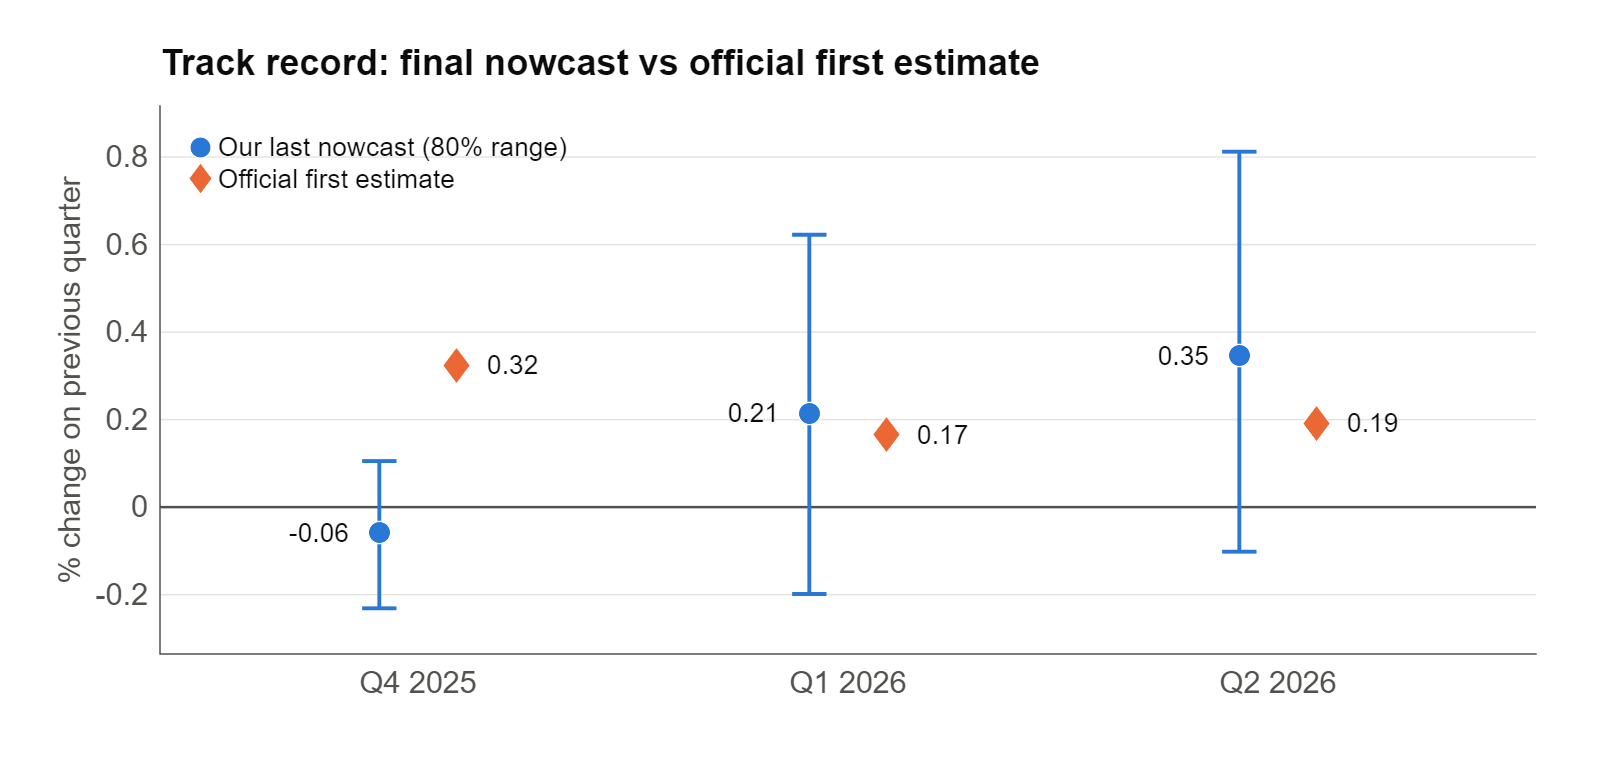
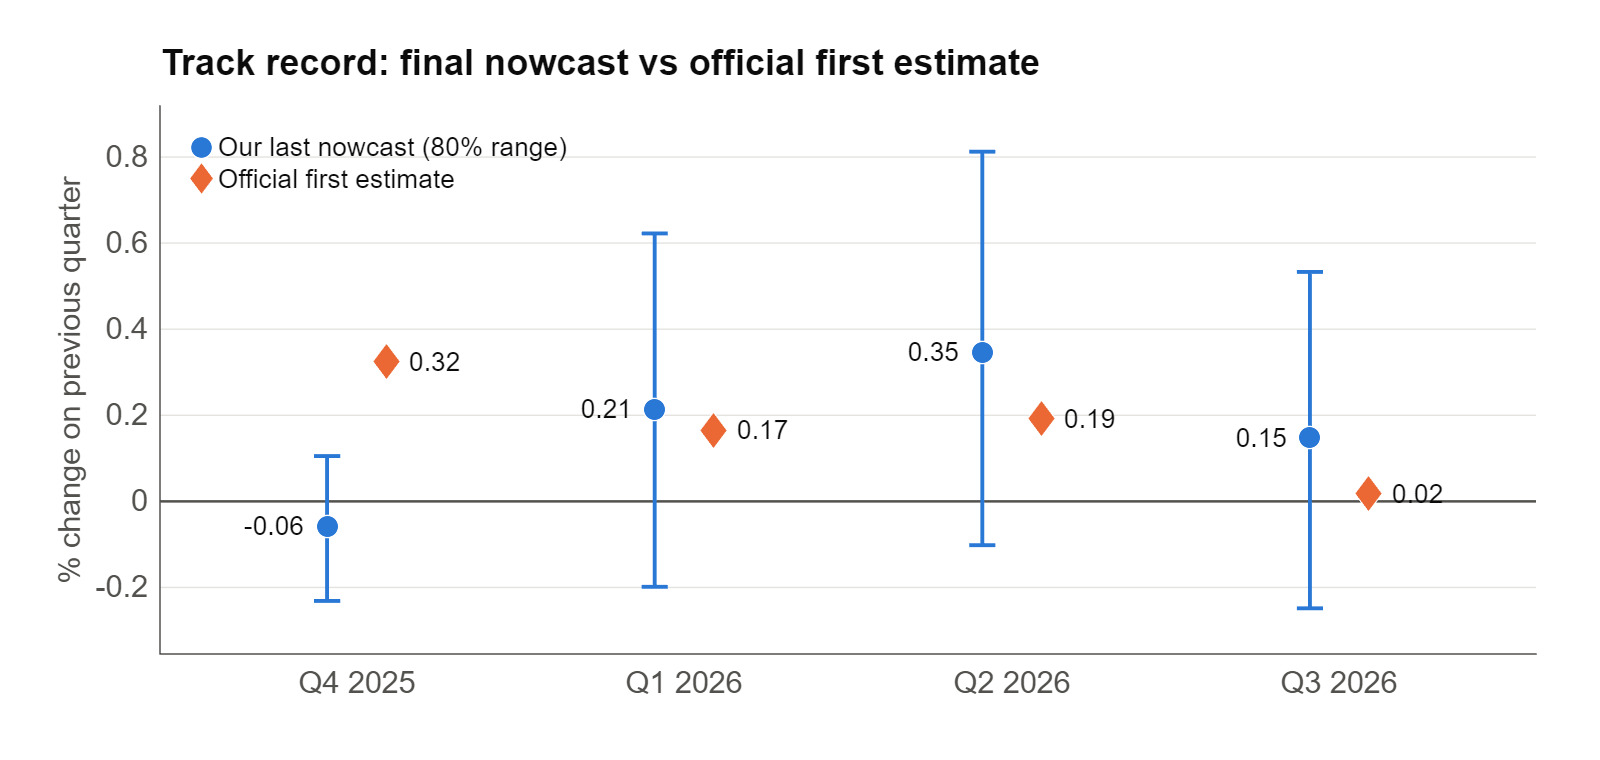
Update GDP nowcast

diff --git a/_pages/nowcast.md b/_pages/nowcast.md
@@ -5,38 +5,32 @@ permalink: /nowcast/
 author_profile: true
 ---
 
-**Latest estimate, 30 October 2026 at 08:12:** Italy's real GDP in **Q3 2026** grew by **0.15%** compared with the previous quarter.
-Likely range (80% probability): -0.25% to 0.53%. Compared with a year earlier: 0.94%.
-The estimate is up 0.06 percentage points from last week.
-This is our final estimate for Q3 2026, made with the data available before ISTAT's preliminary estimate, due today.
+**Latest estimate, 6 November 2026 at 10:10:** Italy's real GDP in **Q4 2026** is growing by **0.33%** compared with the previous quarter.
+Likely range (80% probability): -0.06% to 0.74%. Compared with a year earlier: 0.82%.
+The estimate is up 0.28 percentage points from last week.
 {: .notice--primary style="font-size: 1.1em !important; line-height: 1.6;"}
 
 <!-- release-update -->
 
-**Update, 30 October 2026 at 11:15:** ISTAT's preliminary estimate puts Italy's GDP growth in Q3 2026 at **0%** on the previous quarter.
-Our final nowcast, published on 30 October 2026 at 08:12 with the data available before the release, was **0.15%** (80% range -0.25% to 0.53%). The chart below shows both.
-{: .notice--info}
-
-<!-- /release-update -->
-
-*Updated every Friday. Next official figure: ISTAT preliminary estimate for Q3 2026, due 30 October 2026.*
+*Updated every Friday. Next official figure: ISTAT preliminary estimate for Q4 2026, due 29 January 2027.*
 
 {% capture itnow_block %}{% include nowcast_intro.md %}{% endcapture %}
 {{ itnow_block | markdownify }}
 
-## How the estimate for Q3 2026 has evolved
+## How the estimate for Q4 2026 has evolved
 
-![How the Q3 2026 GDP nowcast evolved week by week](web_nowcast_qoq.png)
+![How the Q4 2026 GDP nowcast evolved week by week](web_nowcast_qoq.png)
 
 Each point is the estimate made on that Friday with the data available at the time. The shaded bands show the uncertainty: the darker band contains the outcome with 50% probability, the lighter band with 80%. The bands narrow as more monthly data for the quarter are published.
 
-![What moved the Q3 2026 nowcast each week](web_news_quarter.png)
+![What moved the Q4 2026 nowcast each week](web_news_quarter.png)
 
 Each bar shows how much the data published that week moved the nowcast, split by type of data. Grey bars are revisions to figures published earlier.
 
-## What changed this week
+<details markdown="1">
+<summary>This week's changes in detail</summary>
 
-The data published this week moved the estimate by +0.06 percentage points (surveys +0.06).
+The data published this week moved the estimate by +0.28 percentage points (surveys +0.21, prices & rates +0.10, gdp release -0.05).
 
 ![Contribution of this week's data releases to the change in the nowcast](web_news_week.png)
 
@@ -44,13 +38,20 @@ The data published this week moved the estimate by +0.06 percentage points (surv
 
 New data published since last week:
 
-- Consumer confidence (Sep 2026): -3.0 points
+- Consumer confidence (Oct 2026): -0.1 points
+- Industrial confidence (Oct 2026): +0.2 points
+- Consumer prices (HICP) (Oct 2026): +1.2% on previous month
+- 1-year Euribor interest rate (Oct 2026): -0.01 percentage points
+- Retail sales (volume) (Sep 2026): +0.1% on previous month
+- Unemployment rate (Sep 2026): +0.10 percentage points
+- Real GDP (Q3 2026): published
+</details>
 
 ## GDP growth in 2026
 
-**Estimate for 2026 as a whole: 0.85%** (80% range 0.45% to 1.28%), with the data available on 30 October 2026.
+**Estimate for 2026 as a whole: 0.87%** (80% range 0.76% to 0.96%), with the data available on 6 November 2026.
 
-If GDP stayed at its Q2 2026 level for the rest of the year, growth in 2026 would be 0.78% (the carry-over, or *crescita acquisita*, also reported by ISTAT). The nowcast for Q3 2026 adds +0.08 points and the model's forecast for Q4 2026 -0.01.
+If GDP stayed at its Q3 2026 level for the rest of the year, growth in 2026 would be 0.78% (the carry-over, or *crescita acquisita*, also reported by ISTAT). The nowcast for Q4 2026 adds +0.09 points.
 
 ![Italy GDP by quarter in 2025 and 2026, with the annual averages](web_annual.png)
 
@@ -76,11 +77,16 @@ Every quarter we compare our last estimate before the official release with ISTA
 
 | Quarter | Our last nowcast | 80% range | ISTAT first estimate | Difference |
 |---|---:|---:|---:|---:|
+| Q3 2026 | 0.15% | -0.25% to 0.53% | 0.02% | +0.13 pp |
 | Q2 2026 | 0.35% | -0.10% to 0.81% | 0.19% | +0.15 pp |
 | Q1 2026 | 0.21% | -0.20% to 0.62% | 0.17% | +0.05 pp |
 | Q4 2025 | -0.06% | -0.23% to 0.11% | 0.32% | -0.38 pp |
 
-![Weekly nowcasts for Q2 2026 versus the official figure](web_previous_quarter.png)
+![Weekly nowcasts for Q3 2026 versus the official figure](web_previous_quarter.png)
+
+![What moved the Q3 2026 nowcast each week](web_news_2026Q3.png)
+
+Each bar shows how much the data published that week moved the nowcast, by type of data.
 
 </details>
 
@@ -100,24 +106,11 @@ Every quarter we compare our last estimate before the official release with ISTA
 
 | Estimate made on | Quarter-on-quarter | 80% range | Year-on-year |
 |---|---:|---:|---:|
-| 30 October 2026 | 0.15% | -0.25% to 0.53% | 0.94% |
-| 23 October 2026 | 0.08% | -0.30% to 0.48% | 0.88% |
-| 16 October 2026 | 0.11% | -0.26% to 0.51% | 0.91% |
-| 9 October 2026 | 0.11% | -0.26% to 0.51% | 0.91% |
-| 2 October 2026 | 0.12% | -0.26% to 0.51% | 0.94% |
-| 25 September 2026 | 0.14% | -0.28% to 0.60% | 0.97% |
-| 18 September 2026 | 0.14% | -0.28% to 0.60% | 0.97% |
-| 11 September 2026 | 0.21% | -0.21% to 0.66% | 1.03% |
-| 4 September 2026 | 0.19% | -0.24% to 0.64% | 1.02% |
-| 28 August 2026 | 0.19% | -0.25% to 0.67% | 1.04% |
-| 21 August 2026 | 0.21% | -0.23% to 0.68% | 1.05% |
-| 14 August 2026 | 0.21% | -0.23% to 0.68% | 1.05% |
-| 7 August 2026 | 0.20% | -0.26% to 0.66% | 1.05% |
-| 31 July 2026 | 0.38% | -0.10% to 0.85% | 1.22% |
-| 24 July 2026 | 0.02% | -0.62% to 0.68% | 0.96% |
-| 17 July 2026 | 0.02% | -0.62% to 0.68% | 0.96% |
-| 10 July 2026 | 0.00% | -0.64% to 0.66% | 0.90% |
-| 3 July 2026 | 0.02% | -0.63% to 0.68% | 0.91% |
+| 6 November 2026 | 0.33% | -0.06% to 0.74% | 0.82% |
+| 30 October 2026 | 0.05% | -0.45% to 0.59% | 0.68% |
+| 23 October 2026 | 0.16% | -0.33% to 0.66% | 0.71% |
+| 16 October 2026 | 0.16% | -0.33% to 0.66% | 0.71% |
+| 9 October 2026 | 0.19% | -0.30% to 0.70% | 0.78% |
 
 ![Year-on-year nowcast](web_nowcast_yoy.png)
 
@@ -128,38 +121,14 @@ Every quarter we compare our last estimate before the official release with ISTA
 
 | Week of | Indicator | Data for | Change on previous period |
 |---|---|---|---:|
+| 6 November 2026 | Consumer confidence | Oct 2026 | -0.1 points |
+| 6 November 2026 | Industrial confidence | Oct 2026 | +0.2 points |
+| 6 November 2026 | Consumer prices (HICP) | Oct 2026 | +1.2% on previous month |
+| 6 November 2026 | 1-year Euribor interest rate | Oct 2026 | -0.01 percentage points |
+| 6 November 2026 | Retail sales (volume) | Sep 2026 | +0.1% on previous month |
+| 6 November 2026 | Unemployment rate | Sep 2026 | +0.10 percentage points |
+| 6 November 2026 | Real GDP | Q3 2026 | published |
 | 30 October 2026 | Consumer confidence | Sep 2026 | -3.0 points |
-| 23 October 2026 | Exports | Aug 2026 | -1.6% on previous month |
-| 23 October 2026 | Imports | Aug 2026 | -1.7% on previous month |
-| 9 October 2026 | Industrial production | Aug 2026 | -1.3% on previous month |
-| 9 October 2026 | Industrial production in Germany | Aug 2026 | +0.4% on previous month |
-| 2 October 2026 | Industrial confidence | Sep 2026 | +1.1 points |
-| 2 October 2026 | Consumer prices (HICP) | Sep 2026 | +2.1% on previous month |
-| 2 October 2026 | 1-year Euribor interest rate | Sep 2026 | +0.29 percentage points |
-| 2 October 2026 | Retail sales (volume) | Aug 2026 | +0.1% on previous month |
-| 2 October 2026 | Unemployment rate | Aug 2026 | +0.20 percentage points |
-| 2 October 2026 | Consumer prices (HICP) | Aug 2026 | +0.1% on previous month |
-| 2 October 2026 | Consumer prices (HICP) | Jul 2026 | -1.0% on previous month |
-| 2 October 2026 | Consumer prices (HICP) | Jun 2026 | +0.0% on previous month |
-| 18 September 2026 | Exports | Jul 2026 | +0.3% on previous month |
-| 18 September 2026 | Imports | Jul 2026 | -1.1% on previous month |
-| 11 September 2026 | Industrial production | Jul 2026 | +0.6% on previous month |
-| 11 September 2026 | Industrial production in Germany | Jul 2026 | -1.8% on previous month |
-| 4 September 2026 | Consumer confidence | Aug 2026 | +0.0 points |
-| 4 September 2026 | Industrial confidence | Aug 2026 | +0.9 points |
-| 4 September 2026 | 1-year Euribor interest rate | Aug 2026 | +0.10 percentage points |
-| 4 September 2026 | Retail sales (volume) | Jul 2026 | -0.4% on previous month |
-| 4 September 2026 | Unemployment rate | Jul 2026 | +0.00 percentage points |
-| 14 August 2026 | Industrial production in Germany | Jun 2026 | +0.3% on previous month |
-| 14 August 2026 | Exports | Jun 2026 | +1.6% on previous month |
-| 14 August 2026 | Imports | Jun 2026 | +0.9% on previous month |
-| 7 August 2026 | 1-year Euribor interest rate | Jul 2026 | +0.06 percentage points |
-| 7 August 2026 | Retail sales (volume) | Jun 2026 | +0.2% on previous month |
-| 7 August 2026 | Industrial production | Jun 2026 | -1.0% on previous month |
-| 31 July 2026 | Consumer confidence | Jul 2026 | +1.9 points |
-| 31 July 2026 | Industrial confidence | Jul 2026 | +0.8 points |
-| 31 July 2026 | Unemployment rate | Jun 2026 | +0.40 percentage points |
-| 31 July 2026 | Real GDP | Q2 2026 | published |
 
 </details>
 
@@ -168,30 +137,7 @@ Every quarter we compare our last estimate before the official release with ISTA
 
 | Week of | Indicator | Data for | Old value | New value |
 |---|---|---|---:|---:|
-| 30 October 2026 | Consumer confidence | Aug 2026 | -20.30 | -20.20 |
-| 30 October 2026 | Industrial confidence | Aug 2026 | -4.40 | -4.30 |
-| 23 October 2026 | Consumer prices (HICP) | Sep 2026 | 4.65 | 4.65 |
-| 23 October 2026 | Exports | Jul 2026 | 10.96 | 10.96 |
-| 23 October 2026 | Imports | Jul 2026 | 10.87 | 10.87 |
-| 23 October 2026 | Exports | Jun 2026 | 10.95 | 10.95 |
-| 23 October 2026 | Imports | Jun 2026 | 10.88 | 10.88 |
-| 9 October 2026 | Industrial production | Jul 2026 | 4.55 | 4.54 |
-| 9 October 2026 | Industrial production in Germany | Jul 2026 | 4.51 | 4.50 |
-| 9 October 2026 | Industrial production | Jun 2026 | 4.54 | 4.54 |
-| 9 October 2026 | Real GDP | Q2 2026 | 4.72 | 4.73 |
-| 2 October 2026 | Industrial confidence | Aug 2026 | -4.80 | -4.40 |
-| 2 October 2026 | Retail sales (volume) | Jul 2026 | 4.58 | 4.58 |
-| 2 October 2026 | Unemployment rate | Jul 2026 | 5.80 | 6.00 |
-| 2 October 2026 | Industrial confidence | Jul 2026 | -5.40 | -5.20 |
-| 2 October 2026 | Unemployment rate | Jun 2026 | 5.80 | 6.00 |
-| 18 September 2026 | Imports | Jun 2026 | 10.89 | 10.88 |
-| 11 September 2026 | Industrial production in Germany | Jun 2026 | 4.52 | 4.52 |
-| 4 September 2026 | Retail sales (volume) | Jun 2026 | 4.59 | 4.58 |
-| 4 September 2026 | Unemployment rate | Jun 2026 | 5.70 | 5.80 |
-| 4 September 2026 | Real GDP | Q2 2026 | 4.72 | 4.72 |
-| 28 August 2026 | Industrial confidence | Jun 2026 | -6.10 | -6.00 |
-| 31 July 2026 | Consumer confidence | Jun 2026 | -22.20 | -22.10 |
-| 31 July 2026 | Industrial confidence | Jun 2026 | -6.40 | -6.10 |
+| 16 October 2026 | Consumer prices (HICP) | Sep 2026 | 4.65 | 4.65 |
 
 </details>
 
@@ -218,4 +164,4 @@ Every quarter we compare our last estimate before the official release with ISTA
 
 *IT Now is an independent research project by [Filippo Ferroni](/) (University of Bologna). It is not an official statistic and does not represent the views of any institution. It is not investment advice.*
 
-<small>Page generated automatically on 30 Oct 2026 08:12.</small>
+<small>Page generated automatically on 06 Nov 2026 10:10.</small>
